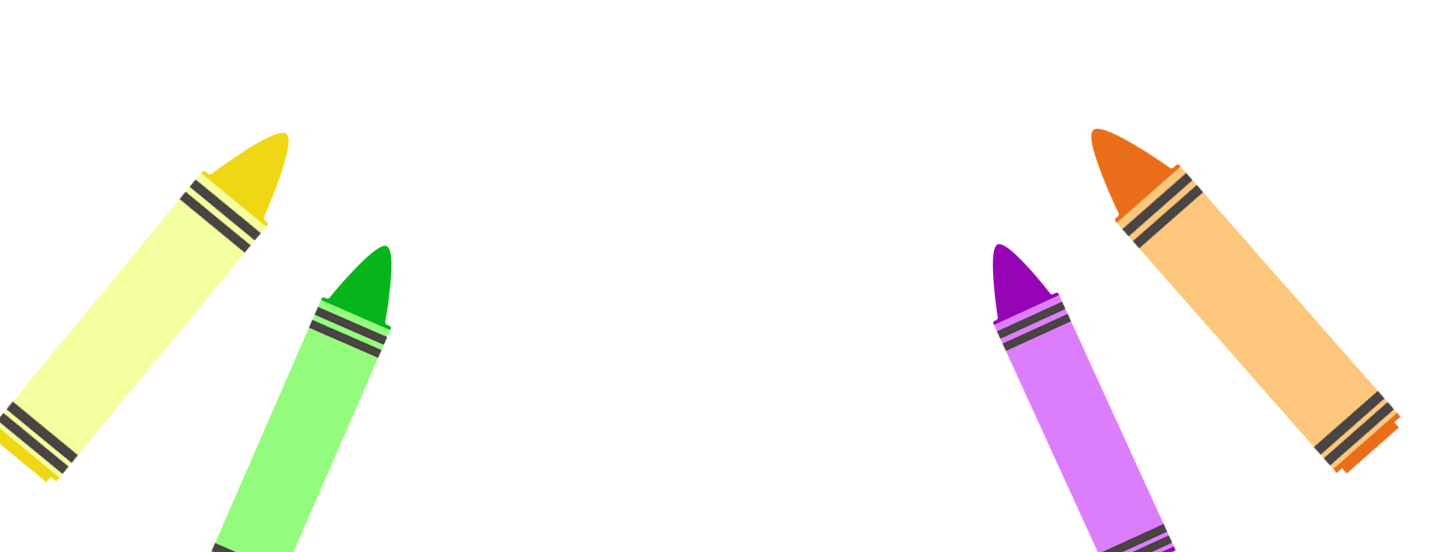
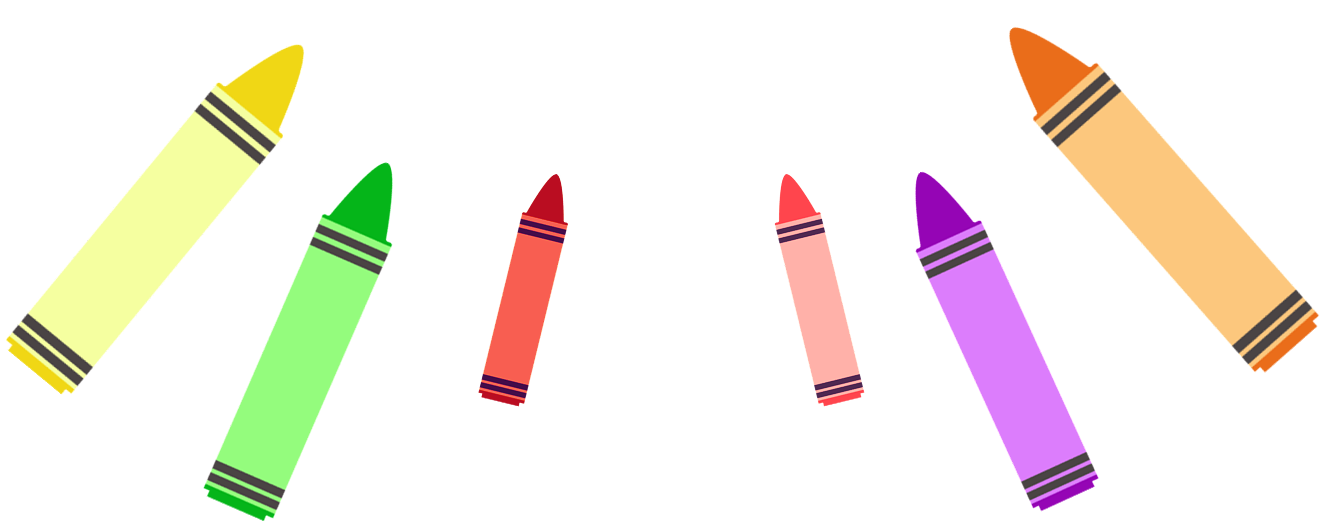
parallax hero

diff --git a/Indexcopy.html b/Indexcopy.html
@@ -8,11 +8,12 @@
     <script src="https://cdn.jsdelivr.net/npm/@tailwindcss/browser@4"></script>
     <link rel="stylesheet" href="/CSS/index.css">
     <link href="https://fonts.googleapis.com/icon?family=Material+Icons" rel="stylesheet">
+    <script src="/Js/parallax.js"></script>
     
 </head>
 
 <body>
-    <main class="bg-blue-500">
+    <main class=" main bg-blue-500">
 
         <header class="w-full top-0 z-50 nav">
             <nav class=" mx-auto">
@@ -70,15 +71,17 @@
             </nav>
         </header>
 
-        <section id="hero"
-            class="bg-gradient-to-b from-blue-500 via-blue-800 to-blue-950 relative min-h-[80vh] flex justify-center items-center overflow-hidden">
+        <section 
+            class="hero bg-gradient-to-b from-blue-500 via-blue-800 to-blue-950 relative min-h-[80vh] flex justify-center items-center overflow-hidden">
 
             <h1 class="absolute text-yellow-400 font-extrabold text-[64px] -mt-40 ml-[10px] z-50">Colegio Bilingüe Cedam
             </h1>
             <img src="./IMG/cloud3.png" class="cloud3 absolute w-full mb-80" alt="">
+            <img src="./IMG/cloudL.png" class="cloudL absolute mb-70 -ml-240 mt-125" alt="">
+            <img src="./IMG/cloudR.png" class="cloudR absolute mb-70 -mr-240 mt-125" alt="">
             <img src="./IMG/cloud2.png" class="cloud2 absolute w-full mb-80" alt="">
-            <img src="./IMG/crayons.png" class="crayons absolute w-full mt-40" alt="">
-            <img src="./IMG/cloud1.png" class="cloud1 absolute w-full mb-95" alt="">
+            <img src="./IMG/crayons.png" class="crayons absolute w-full mt-70" alt="">
+            <img src="./IMG/cloud1.png" class="cloud1 absolute w-full -mb-165" alt="">
         </section>
 
     </main>
@@ -109,7 +112,7 @@
 
             </div>
 
-            <div id="svg">
+            <div>
                 <svg width="200" height="200">
                     <use xlink:href="./assets/star.svg" />
                 </svg>
@@ -127,9 +130,9 @@
 
             <div id="text" class="flex flex-row items-center justify-around gap-10 ">
 
-                <div id="crayon" class="">
+                <div>
                     <svg width="800" height="200">
-                        <use xlink:href="./assets/YCrayon.svg" />
+                        <use xlink:href="./assets/YCrayon.svg" class="crayony" />
                     </svg>
                 </div>
 
@@ -166,12 +169,14 @@
         </div>
     </div>
 
+    <!--Extracurriculares-->
+
     <section>
         <div id="extras" class="bg-[#F6F6F6] h-[470px]  flex flex-col items-center text-green-600 z-30 gap-10 pt-15 ">
             <div id="title" class="text-pink-500 font-extrabold text-2xl">
                 <h2 class="text-[40px]">Extracurriculares</h2>
             </div>
-            <div class="list flex justify-between gap-8 relative z-50">
+            <div class="list flex justify-between gap-8 relative z-50 text-pink-500">
 
                 <div class="extra h-32">
 
@@ -227,8 +232,10 @@
 
             <img src="/IMG/palette.png" alt=""
                 class="absolute text-yellow-400 font-extrabold text-[60px] -ml-[1350px] mt-20 z-10">
-            <img src="/IMG/paint.png" alt=""
-                class="absolute text-yellow-400 font-extrabold text-[60px] -ml-[50px] mt-80 z-10">
+            <img src="/IMG/paintpp.png" alt="" class="pp absolute mr-40 mt-100 z-50">
+            <img src="/IMG/paintblue.png" alt="" class="absolute mr-200 mt-85 z-10">
+            <img src="/IMG/paintyellow.png" alt="" class="absolute ml-100 mt-90 z-10">
+            <img src="/IMG/paintOrange.png" alt="" class="absolute ml-230 mt-85 z-10">
         </div>
     </section>
 

diff --git a/Js/parallax.js b/Js/parallax.js
@@ -1,0 +1,14 @@
+window.onscroll = () => {
+    /*parallax hero*/
+    document.querySelector(".cloud3").style.marginTop = -scrollY +"px";
+    document.querySelector(".cloudL").style.marginRight = scrollY +.5 + "px";
+    document.querySelector(".cloudR").style.marginLeft = scrollY +.9 + "px";
+    document.querySelector(".cloud2").style.marginTop = -scrollY +"px";
+    document.querySelector(".cloud1").style.marginTop = -scrollY +"px";
+    document.querySelector(".main").style.marginTop = -scrollY + .8 + "px";
+    /*document.querySelector(".hero h1").style.marginTop = scrollY + "px";
+    document.querySelector(".hero h1").style.opacity = ( 100 - scrollY) / 100;*/
+
+    /*Parallax */
+    document.querySelector(".pp").style.opacity = scrollY / 100;
+} 
